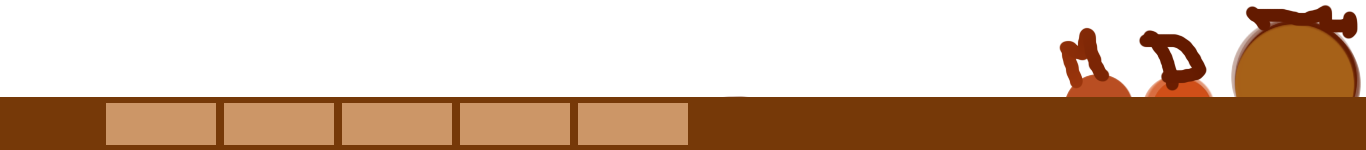
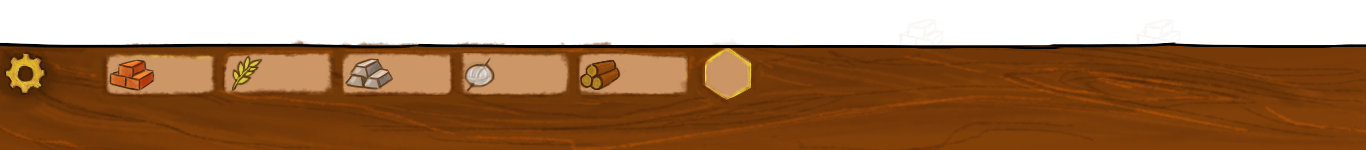
wyswietlanie i tekstury: Dice, ActualPlayer,ColorsBuildings&Roads

diff --git a/core/src/database/Building.java b/core/src/database/Building.java
@@ -78,6 +78,8 @@ public class Building extends Element {
 					state = 1;
 				}
 				
+				if(here.getBuilding()==2)
+					state = 4;	
 				
 				if(here.getBuilding()==0){
 					if(player.getResources("grain")>=3 && player.getResources("sheep")>=1 && player.getResources("wood")>=1 && player.getResources("clay")>=1 && player.getResources("ore")>=3){
@@ -96,8 +98,6 @@ public class Building extends Element {
 							state = 1;
 				}
 				
-				if(here.getBuilding()==2)
-					state = 4;	
 			}
 			else
 				state = 2;

diff --git a/core/src/representation/View.java b/core/src/representation/View.java
@@ -6,7 +6,7 @@ public abstract class View {
 	    MAINMENU, NEWGAMEMENU, GAMEPLAY, ENDGAME,
 	    CREDITS, RULES,END}
 	
-	private static Screen view = Screen.MAINMENU;
+	private static Screen view = Screen.GAMEPLAY;
 	final static int screensizeX=1366; 
 	final static int screensizeY=768; 
 	public void init(){}
